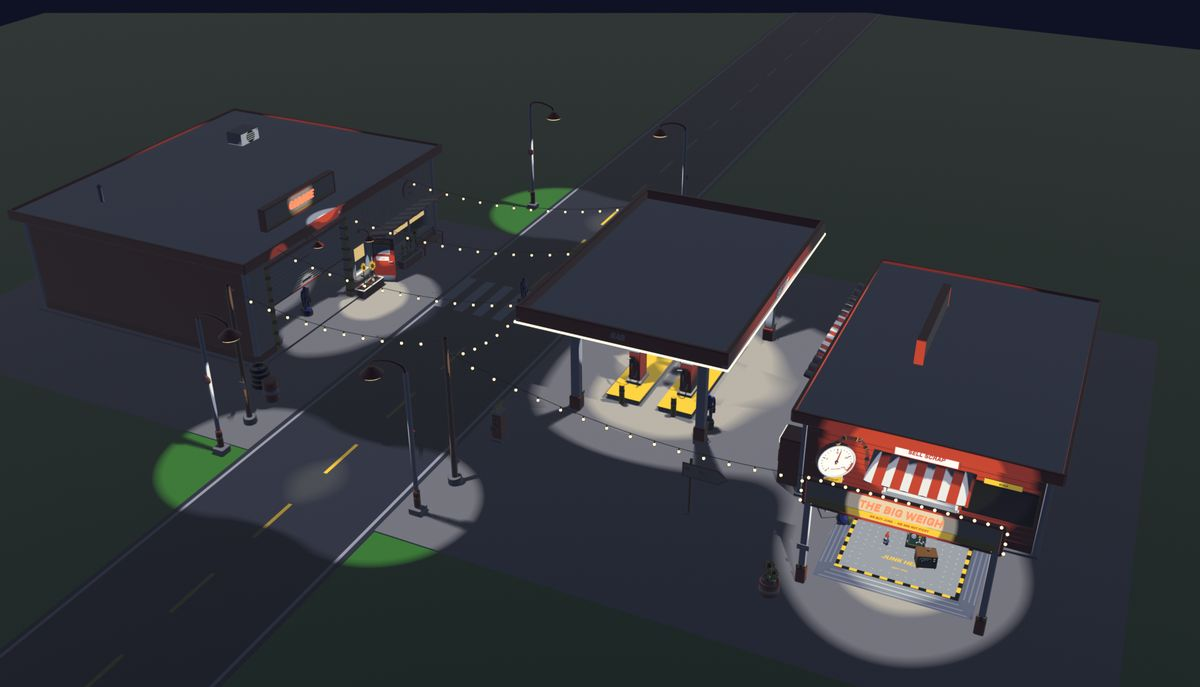
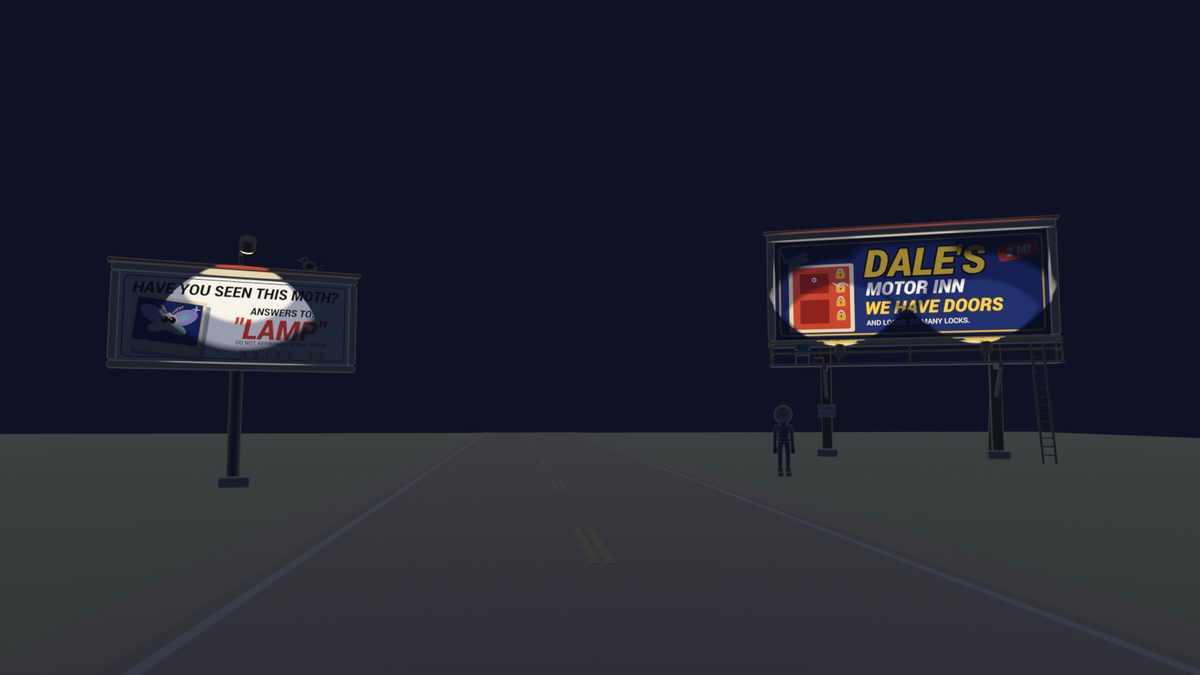
Add results since publication, swap Last Stop art for the road
Claude-Session: https://claude.ai/code/session_01HWgKuC3UF5ZN1fEtx2jL3Y

diff --git a/index.html b/index.html
@@ -106,12 +106,17 @@
     <article class="card-wrap reveal" id="robust">
       <div class="card c-rose">
         <div class="shot shot-robust">
-          <span class="shot-tag">Stress-testing a strategy &middot; 2024</span>
+          <span class="shot-tag">Stress-testing a strategy &middot; 2024 to now</span>
           <p class="pitch">Before I trust a strategy, I try to break it.</p>
           <figure class="curve">
             <svg viewBox="0 0 480 96" preserveAspectRatio="none" role="img" aria-label="Backtested growth of my CAKE strategy from December 2020 to July 2024, on a log scale"><polyline points="0.0,90.6 2.5,87.8 5.1,88.2 7.6,88.0 10.1,84.6 12.6,83.3 15.2,87.0 17.7,92.0 20.2,85.0 22.7,77.9 25.3,64.9 27.8,60.6 30.3,55.9 32.8,59.2 35.4,59.4 37.9,56.9 40.4,58.6 42.9,59.6 45.5,60.2 48.0,56.5 50.5,59.0 53.1,55.0 55.6,54.0 58.1,52.5 60.6,49.2 63.2,50.0 65.7,50.0 68.2,49.8 70.7,49.3 73.3,48.8 75.8,48.8 78.3,49.1 80.8,48.9 83.4,48.7 85.9,49.1 88.4,48.2 90.9,46.8 93.5,45.8 96.0,43.4 98.5,45.3 101.1,43.2 103.6,44.4 106.1,43.3 108.6,42.5 111.2,43.0 113.7,43.3 116.2,43.4 118.7,44.9 121.3,45.5 123.8,47.7 126.3,46.6 128.8,45.1 131.4,44.9 133.9,44.4 136.4,44.7 138.9,44.0 141.5,44.0 144.0,43.7 146.5,43.8 149.1,43.4 151.6,42.0 154.1,41.9 156.6,42.3 159.2,42.4 161.7,41.8 164.2,41.8 166.7,41.5 169.3,41.3 171.8,41.8 174.3,39.4 176.8,39.8 179.4,39.7 181.9,41.0 184.4,43.2 186.9,43.5 189.5,38.6 192.0,38.7 194.5,39.2 197.1,38.7 199.6,38.9 202.1,37.5 204.6,37.3 207.2,37.3 209.7,37.4 212.2,37.3 214.7,38.2 217.3,37.7 219.8,36.2 222.3,34.7 224.8,35.1 227.4,34.9 229.9,34.9 232.4,35.5 234.9,36.5 237.5,36.3 240.0,34.6 242.5,35.7 245.1,35.1 247.6,35.0 250.1,35.2 252.6,35.9 255.2,34.1 257.7,34.2 260.2,34.4 262.7,34.5 265.3,34.3 267.8,33.9 270.3,33.1 272.8,32.6 275.4,33.0 277.9,33.4 280.4,33.8 282.9,32.4 285.5,32.1 288.0,30.3 290.5,32.0 293.1,31.6 295.6,31.2 298.1,30.4 300.6,30.5 303.2,30.4 305.7,30.3 308.2,30.5 310.7,30.2 313.3,29.7 315.8,27.8 318.3,27.7 320.8,26.5 323.4,26.4 325.9,25.9 328.4,25.9 330.9,25.7 333.5,25.4 336.0,25.6 338.5,25.6 341.1,25.7 343.6,25.6 346.1,25.7 348.6,25.6 351.2,25.7 353.7,25.6 356.2,25.5 358.7,25.3 361.3,25.3 363.8,25.2 366.3,25.1 368.8,25.1 371.4,25.1 373.9,25.1 376.4,25.0 378.9,24.9 381.5,25.1 384.0,23.7 386.5,17.7 389.1,15.0 391.6,16.1 394.1,17.4 396.6,16.5 399.2,16.3 401.7,15.3 404.2,12.5 406.7,14.1 409.3,13.5 411.8,13.2 414.3,11.8 416.8,11.8 419.4,11.8 421.9,12.5 424.4,13.1 426.9,11.5 429.5,10.8 432.0,5.3 434.5,8.5 437.1,9.9 439.6,8.5 442.1,8.1 444.6,5.0 447.2,5.6 449.7,4.7 452.2,5.0 454.7,4.9 457.3,5.0 459.8,5.2 462.3,4.0 464.8,6.7 467.4,5.7 469.9,5.2 472.4,4.6 474.9,4.1 477.5,4.6 480.0,4.9" pathLength="1"/></svg>
             <figcaption>Growth of the strategy that survived (CAKE, a crypto token). Backtest before fees, log scale <span>2020 &ndash; 2024</span></figcaption>
           </figure>
+          <div class="vs" role="img" aria-label="Forward test after publication, September 2024 to November 2026. Worst drop: 53 percent for holding Bitcoin, about 24 percent for my Bitcoin strategy.">
+            <p class="vs-h">After publishing, on prices it had never seen (my Bitcoin strategy, Sep 2024 to Nov 2026): worst drop</p>
+            <div class="vs-row"><span>Holding Bitcoin</span><i class="vs-bar vs-btc" style="--w:100%"></i><b>&minus;53%</b></div>
+            <div class="vs-row me"><span>My strategy</span><i class="vs-bar vs-me" style="--w:45.7%"></i><b>&minus;24%</b></div>
+          </div>
           <dl class="tiles">
             <div><dd>61%</dd><dt>of its 33 trades were profitable</dt></div>
             <div><dd>$6.19</dd><dt>won for every $1 lost</dt></div>
@@ -119,8 +124,8 @@
           </dl>
         </div>
       </div>
-      <div class="cap"><h3>Strategy Robustness Testing</h3><span>2024</span></div>
-      <p class="desc">A strategy that looks great once can still be a fluke. I put every strategy through robustness testing to check that its results were not luck, so it has a real chance of staying profitable as markets change. Many of my early strategies failed and were scrapped or rebuilt. This is one that passed.</p>
+      <div class="cap"><h3>Strategy Robustness Testing</h3><span>2024 &ndash; Present</span></div>
+      <p class="desc">A strategy that looks great once can still be a fluke. I put every strategy through robustness testing to check that its results were not luck, so it has a real chance of staying profitable as markets change. Many of my early strategies failed and were scrapped or rebuilt. The real exam comes after publishing, on prices the strategy has never seen: since September 2024 my Bitcoin strategy has returned 24% against 28% for simply holding, with a worst drop of about 24% against 53%. Figures are before trading fees.</p>
     </article>
 
     <article class="card-wrap reveal" id="trading">
@@ -191,9 +196,9 @@
     <article class="card-wrap reveal" id="laststop">
       <div class="card c-dusk">
         <div class="shot shot-ls">
-          <div class="ls-art" role="img" aria-label="Art from the game: the Last Stop gas station and garage, shown by day and then by night">
-            <img src="img/laststop-day.jpg" alt="" width="1200" height="687" loading="lazy" decoding="async">
-            <img class="ls-night" src="img/laststop-night.jpg" alt="" width="1200" height="687" loading="lazy" decoding="async">
+          <div class="ls-art" role="img" aria-label="Art from the game: the open road with its roadside signs by day, then the same road at night">
+            <img src="img/laststop-day.jpg" alt="" width="1200" height="675" loading="lazy" decoding="async">
+            <img class="ls-night" src="img/laststop-night.jpg" alt="" width="1200" height="675" loading="lazy" decoding="async">
           </div>
           <span class="shot-tag">A co-op game I made</span>
           <a class="rerun go" href="https://github.com/Koregelos/laststop-builds/releases" target="_blank" rel="noopener" aria-label="Last Stop playtest builds on GitHub (opens in a new tab)">Download &nearr;</a>
@@ -205,32 +210,27 @@
         </div>
       </div>
       <div class="cap"><h3>Last Stop</h3><span>Sep &ndash; Nov 2026</span></div>
-      <p class="desc">A first-person co-op game I designed and built in Unity, free to download. You and your friends start with a bare car frame you push by hand, search a randomly generated roadside for scrap, and trade it for parts until the wreck is a rolling base. Days are cozy and nights are not. The art above is one of its roadside stops, by day and by night. I shipped 11 playtest builds in five weeks, adjusting enemies, difficulty, and prices after each session with friends.</p>
+      <p class="desc">A first-person co-op game I designed and built in Unity, free to download. You and your friends start with a bare car frame you push by hand, search a randomly generated roadside for scrap, and trade it for parts until the wreck is a rolling base. Days are cozy and nights are not. The art above is the road itself, by day and by night. I shipped 11 playtest builds in five weeks, adjusting enemies, difficulty, and prices after each session with friends.</p>
     </article>
 
     <article class="card-wrap reveal" id="usars">
       <div class="card c-teal">
         <div class="shot shot-usars">
-          <span class="shot-tag">A trading system I coded</span>
-          <p class="pitch">I coded a system that beat simply holding Bitcoin in testing.</p>
-          <div class="hold" role="img" aria-label="Illustration: the system holds one asset at a time and switches to cash in weak markets">
-            <div class="hold-bar"><i class="h-btc" style="flex:14"></i><i class="h-cash" style="flex:6"></i><i class="h-eth" style="flex:9"></i><i class="h-sol" style="flex:16"></i><i class="h-cash" style="flex:5"></i><i class="h-doge" style="flex:8"></i><i class="h-btc" style="flex:12"></i><i class="h-sol" style="flex:11"></i><i class="h-cash" style="flex:7"></i><i class="h-btc" style="flex:12"></i></div>
-            <p class="hold-key"><span><i class="h-btc"></i><i class="h-eth"></i><i class="h-sol"></i><i class="h-doge"></i>one coin at a time</span><span><i class="h-cash"></i>cash</span><em>illustration of how it rotates over time</em></p>
-          </div>
-          <div class="vs" role="img" aria-label="Worst drop in backtest: 38 percent for my strategy against 81 percent for holding Bitcoin">
-            <p class="vs-h">Worst drop from a peak, 2018 to 2024 backtest</p>
-            <div class="vs-row"><span>Holding Bitcoin</span><i class="vs-bar vs-btc" style="--w:81%"></i><b>&minus;81%</b></div>
-            <div class="vs-row me"><span>My strategy</span><i class="vs-bar vs-me" style="--w:38%"></i><b>&minus;38%</b></div>
-          </div>
+          <span class="shot-tag">A trading system I coded &middot; since launch</span>
+          <p class="pitch">Since I published it, Bitcoin is down 19%. My system is down 2%.</p>
+          <figure class="fw">
+            <div class="fw-plot"><svg viewBox="0 0 480 120" preserveAspectRatio="none" role="img" aria-label="Line chart from November 2024 to November 2026. My system ends 2 percent down. Holding Bitcoin ends 19 percent down after falling as much as 53 percent."><line x1="0" x2="480" y1="61.5" y2="61.5" class="fw-base"/><polyline class="fw-btc" points="0.0,61.5 19.2,52.7 38.4,57.7 57.6,43.2 76.8,72.3 96.0,75.1 115.2,56.3 134.4,39.7 153.6,35.6 172.8,21.7 192.0,33.8 211.2,24.3 230.4,31.6 249.6,62.5 268.8,67.0 288.0,81.4 307.2,100.1 326.4,98.2 345.6,85.2 364.8,89.6 384.0,113.7 403.2,106.8 422.4,81.5 441.6,73.5 460.8,83.3 480.0,89.3" pathLength="1"/><polyline class="fw-me" points="0.0,61.5 19.2,39.2 38.4,60.3 57.6,60.3 76.8,60.3 96.0,60.3 115.2,60.3 134.4,53.3 153.6,55.2 172.8,44.2 192.0,5.4 211.2,41.9 230.4,41.6 249.6,41.6 268.8,41.6 288.0,41.6 307.2,41.6 326.4,41.6 345.6,44.9 364.8,58.8 384.0,58.8 403.2,65.1 422.4,59.0 441.6,50.2 460.8,64.7 480.0,64.7" pathLength="1"/></svg><span class="fw-l fw-l-me" style="top:39%">My system &minus;2%</span><span class="fw-l fw-l-btc" style="top:77%">Bitcoin &minus;19%</span></div>
+            <figcaption><span>Nov 2024</span><span>flat stretches: the system waiting in cash</span><span>Nov 2026</span></figcaption>
+          </figure>
           <dl class="tiles">
-            <div><dd>518</dd><dt>lines of code, written by me</dt></div>
-            <div><dd>5</dd><dt>assets compared head to head every day</dt></div>
+            <div><dd>63%</dd><dt>of days spent safely in cash while the market fell</dt></div>
+            <div><dd>35%</dd><dt>worst drop, against 53% for Bitcoin</dt></div>
             <div><dd>99</dd><dt>likes from other TradingView users</dt></div>
           </dl>
         </div>
       </div>
       <div class="cap"><h3>Universal Strategy Asset Rotation System</h3><span>Nov 2024 &ndash; Present</span></div>
-      <p class="desc">A trading system I designed and coded from scratch in Pine Script. Every day it compares five cryptocurrencies head to head, holds the strongest, and steps aside to cash when the whole market is falling. In backtests its core strategy made more than holding Bitcoin while losing less than half as much in the worst crash. Backtests are not live results.</p>
+      <p class="desc">A trading system I designed and coded from scratch in Pine Script. Every day it compares five cryptocurrencies head to head, holds the strongest, and steps aside to cash when the whole market is falling. The two years since I published it have been rough for crypto, which is the test that matters: the system is down 2% where holding Bitcoin is down 19%, and the same system without its cash rule would have lost 42%. Figures are a re-run of the published code on daily prices with 0.5% trading fees, not live trading.</p>
     </article>
 
     <article class="card-wrap reveal" id="quillton">

diff --git a/styles.css b/styles.css
@@ -713,7 +713,7 @@ html.js .reveal:not(.seen) .biz-col em { opacity: 0; }
 /* Last Stop art */
 .shot-ls { background: #17111f; display: flex; flex-direction: column; justify-content: flex-end; padding: 0; min-height: 340px; }
 .ls-art { position: absolute; inset: 0; }
-.ls-art img { position: absolute; inset: 0; width: 100%; height: 100%; object-fit: cover; object-position: 50% 58%; }
+.ls-art img { position: absolute; inset: 0; width: 100%; height: 100%; object-fit: cover; object-position: 50% 40%; }
 .ls-art .ls-night { opacity: 0; animation: lsnight 11s ease-in-out infinite; }
 html.js .reveal:not(.seen) .ls-art .ls-night { animation-play-state: paused; }
 @keyframes lsnight { 0%, 30% { opacity: 0; } 46%, 84% { opacity: 1; } 100% { opacity: 0; } }
@@ -807,3 +807,21 @@ html.js .reveal:not(.seen) .wt-dots i { opacity: .15; transform: scale(.6); }
 .wt-bar i { padding: 0 4px; font-size: 9.5px; letter-spacing: -.02em; }
 .wt-bar i:last-child { flex-basis: 34px; flex-shrink: 0; }
 @media (max-width: 560px) { .ql-win img { width: 100%; margin-left: 0; } }
+
+/* forward results */
+.fw { margin: auto 0 0; }
+.fw-plot { position: relative; }
+.fw svg { display: block; width: 100%; height: 132px; overflow: visible; }
+.fw polyline { fill: none; stroke-width: 2; vector-effect: non-scaling-stroke; stroke-linejoin: round; stroke-dasharray: 1; stroke-dashoffset: 0; transition: stroke-dashoffset 2.6s ease-out .3s; }
+.fw .fw-me { stroke: #8be0a4; stroke-width: 2.5; }
+.fw .fw-btc { stroke: #f08a6c; opacity: .9; }
+.fw .fw-base { stroke: rgba(255, 255, 255, .28); stroke-dasharray: 3 4; vector-effect: non-scaling-stroke; }
+html.js .reveal:not(.seen) .fw polyline { stroke-dashoffset: 1; }
+.fw-l { position: absolute; right: 0; font: 500 10.5px var(--mono); padding: 1px 5px; border-radius: 4px; background: rgba(10, 15, 28, .82); transition: opacity .6s ease 2.4s; white-space: nowrap; }
+.fw-l-me { color: #8be0a4; }
+.fw-l-btc { color: #f6a58c; }
+html.js .reveal:not(.seen) .fw-l { opacity: 0; }
+.fw figcaption { display: flex; justify-content: space-between; gap: 8px; margin-top: 6px; font: 500 10px var(--mono); color: rgba(255, 255, 255, .6); }
+.shot-robust .vs-h { line-height: 1.4; }
+@media (max-width: 560px) { .fw figcaption span:nth-child(2) { display: none; } .fw svg { height: 116px; } }
+@media (prefers-reduced-motion: reduce) { .fw polyline, .fw-l { transition: none; } }
